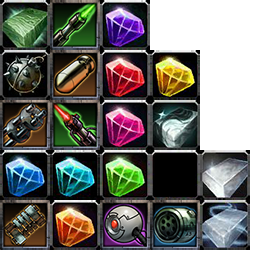
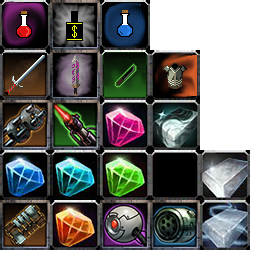
Added Startmenu, updated inventory

Changed region(s): [[0.0, 0.0, 0.7812, 0.4062]]

diff --git a/core/src/de/test/game/StartMenu.java b/core/src/de/test/game/StartMenu.java
@@ -1,0 +1,179 @@
+/**
+ * 
+ */
+package de.test.game;
+
+import com.badlogic.gdx.Game;
+import com.badlogic.gdx.Gdx;
+import com.badlogic.gdx.Screen;
+import com.badlogic.gdx.graphics.Camera;
+import com.badlogic.gdx.graphics.GL20;
+import com.badlogic.gdx.graphics.OrthographicCamera;
+import com.badlogic.gdx.graphics.g2d.BitmapFont;
+import com.badlogic.gdx.graphics.g2d.SpriteBatch;
+import com.badlogic.gdx.graphics.g2d.TextureAtlas;
+import com.badlogic.gdx.scenes.scene2d.InputEvent;
+import com.badlogic.gdx.scenes.scene2d.Stage;
+import com.badlogic.gdx.scenes.scene2d.ui.Skin;
+import com.badlogic.gdx.scenes.scene2d.ui.Table;
+import com.badlogic.gdx.scenes.scene2d.ui.TextButton;
+import com.badlogic.gdx.scenes.scene2d.ui.TextButton.TextButtonStyle;
+import com.badlogic.gdx.scenes.scene2d.utils.ClickListener;
+import com.badlogic.gdx.utils.Align;
+import com.badlogic.gdx.utils.viewport.ExtendViewport;
+import com.badlogic.gdx.utils.viewport.Viewport;
+
+/**
+ * @author User
+ *
+ */
+public class StartMenu implements Screen
+{
+	Game game;
+
+	Viewport viewport;
+	public Stage stage;
+	SpriteBatch batch = new SpriteBatch();
+	
+	TextureAtlas butwin;
+	BitmapFont font;
+	Table table = new Table();
+	TextButton newGame;
+	TextButton loadGame;
+	TextButton options;
+	TextButton exitGame;
+	TextButtonStyle button = new TextButtonStyle();
+	
+	public StartMenu(Game game)
+	{
+		this.game = game;
+	}
+
+	@Override
+	public void show()
+	{
+		
+		viewport = new ExtendViewport(800, 480);
+		stage = new Stage(viewport);
+		Gdx.input.setInputProcessor(stage);
+		
+		butwin = new TextureAtlas("butwin.atlas");
+		font = new BitmapFont(Gdx.files.internal("default.fnt"));
+		Skin skin = new Skin();
+		skin.addRegions(butwin);
+		button.down = skin.getDrawable("start");
+		button.up = skin.getDrawable("start");
+		button.font = font;
+		button.fontColor.rgb565(255, 0, 0);
+		skin.add("buttonSkin", button);
+		
+		newGame = new TextButton("Neues Spiel", skin, "buttonSkin");
+		loadGame = new TextButton("Spiel laden", skin, "buttonSkin");
+		options = new TextButton("Optionen", skin, "buttonSkin");
+		exitGame = new TextButton("Spiel verlassen", skin, "buttonSkin");
+		
+		table.setPosition(Gdx.graphics.getWidth()/2, Gdx.graphics.getHeight()/4);
+		
+		table.add(newGame).width(200).align(Align.center);
+		table.row();
+		table.add(loadGame);
+		table.row();
+		table.add(options);
+		table.row();
+		table.add(exitGame);
+		
+		table.debugCellColor.set(0, 0, 0, 0);
+		table.debugTableColor.set(0, 0, 0, 0);
+		table.debugActorColor.set(0, 0, 0, 0);
+		
+		table.pack();
+		table.debug();
+		
+		newGame.addListener(new ClickListener()
+		{
+			public void clicked(InputEvent e, float x, float y)
+			{
+				System.out.println("StartGame clicked.");
+				game.setScreen(new Gamescreen(game));
+			}
+		});
+		
+		loadGame.addListener(new ClickListener()
+		{
+			public void clicked(InputEvent e, float x, float y)
+			{
+				System.out.println("LoadGame clicked.");
+			}
+		});
+		
+		options.addListener(new ClickListener()
+		{
+			public void clicked(InputEvent e, float x, float y)
+			{
+				System.out.println("Options clicked.");
+			}
+		});
+		
+		exitGame.addListener(new ClickListener()
+		{
+			public void clicked(InputEvent e, float x, float y)
+			{
+				System.out.println("exitGame clicked.");
+				Gdx.app.exit();
+			}
+		});
+		
+		stage.addActor(table);
+		Gdx.input.setInputProcessor(stage);
+	}
+
+	@Override
+	public void render(float delta)
+	{		
+		Gdx.gl.glClearColor(0, 0, 0, 0);
+		Gdx.gl.glClear(GL20.GL_COLOR_BUFFER_BIT);
+		
+		/*batch.setProjectionMatrix(cam.combined);
+		batch.begin();
+		table.draw(batch, 1);
+		batch.end();*/
+		stage.act();
+		stage.draw();
+	}
+
+	@Override
+	public void resize(int width, int height)
+	{
+		viewport.update(width, height);
+		
+	}
+
+	@Override
+	public void pause()
+	{
+		// TODO Auto-generated method stub
+		
+	}
+
+	@Override
+	public void resume()
+	{
+		// TODO Auto-generated method stub
+		
+	}
+
+	@Override
+	public void hide()
+	{
+		// TODO Auto-generated method stub
+		
+	}
+
+	@Override
+	public void dispose()
+	{
+		stage.dispose();
+		
+	}
+
+}

diff --git a/core/src/de/test/game/Item.java b/core/src/de/test/game/Item.java
@@ -2,9 +2,11 @@ package de.test.game;
 
 public enum Item {
 
-	CRYSTAL_RED("redcrystal"), CRYSTAL_BLUE("bluecrystal"), CRYSTAL_GREEN("greencrystal"), CRYSTAL_YELLOW("yellowcrystal"), CRYSTAL_MAGENTA("magentacrystal"), CRYSTAL_CYAN(
-			"cyancrystal"), CRYSTAL_ORANGE("orangecrystal"), CRYSTAL_VIOLET("violetcrystal"), TITANIUM("titanium"), PALLADIUM("palladium"), HEILTRANK("healthpot"), RHODIUM("rhodium"), HULL(
-			"hullbase"), CANNON("cannonbase"), RAY("raybase"), LAUNCHER("launcherbase"), DROID("droidbase"), MINE("dropperbase"), BATTERY("batterybase");
+	MESSER("knife"), CRYSTAL_BLUE("bluecrystal"), CRYSTAL_GREEN("greencrystal"), BRUSTPANZER("armor"), 
+	CRYSTAL_MAGENTA("magentacrystal"), CRYSTAL_CYAN("cyancrystal"), CRYSTAL_ORANGE("orangecrystal"), MANATRANK("manapotion"), 
+	TITANIUM("titanium"), PALLADIUM("palladium"), HEILTRANK("healthpot"), RHODIUM("rhodium"), HULL("hullbase"), 
+	CANNON("cannonbase"), REICHTUMSELIXIER("reichtumselixier"), LANGSCHWERT("schwert1"), DROID("droidbase"), 
+	KURZSCHWERT("schwert2"), BATTERY("batterybase");
 
 	private String textureRegion;
 

diff --git a/core/src/de/test/game/SlotTooltip.java b/core/src/de/test/game/SlotTooltip.java
@@ -11,7 +11,7 @@ public class SlotTooltip extends Window implements SlotListener {
 	private Slot slot;
 
 	public SlotTooltip(Slot slot, Skin skin) {
-		super("Item", skin);
+		super(slot.toString(), skin);
 		this.slot = slot;
 		this.skin = skin;
 		hasChanged(slot);
@@ -25,11 +25,11 @@ public class SlotTooltip extends Window implements SlotListener {
 			setVisible(false);
 			return;
 		}
-
+		
 		// title displays the amount
 		setName(slot.getAmount() + "x " + slot.getItem());
 		clear();
-		Label label = new Label(slot.getItem() + ": " + slot.getAmount() + "x", skin);
+		Label label = new Label("Anzahl: " + slot.getAmount(), skin);
 		add(label);
 		pack();
 	}

diff --git a/core/src/de/test/game/InventoryScreen.java b/core/src/de/test/game/InventoryScreen.java
@@ -38,6 +38,7 @@ public class InventoryScreen implements Screen {
 	
 	@Override
 	public void show() {
+		
 		viewport = new ExtendViewport(800, 480);
 		
 		stage = new Stage(viewport);
@@ -52,6 +53,7 @@ public class InventoryScreen implements Screen {
 		Skin skin = new Skin(Gdx.files.internal("uiskin.json"));
 		DragAndDrop dragAndDrop = new DragAndDrop();
 		inventoryActor = new InventoryActor(new Inventory(), dragAndDrop, skin);
+		inventoryActor.setMovable(false);
 		stage.addActor(inventoryActor);
 		
 		xbutt = new ImageButton(butwi, "xbu");

diff --git a/core/src/de/test/game/Inventory.java b/core/src/de/test/game/Inventory.java
@@ -6,7 +6,7 @@ import com.badlogic.gdx.utils.Array;
 
 public class Inventory{
 
-	private int slotAmount = 88;
+	private int slotAmount = 64;
 	private Array<Slot> slots;
 
 	public Inventory() {
@@ -17,7 +17,8 @@ public class Inventory{
 
 		// create some random items
 		for (Slot slot : slots) {
-			slot.add(Item.values()[MathUtils.random(0, Item.values().length - 1)], 1);
+			slot.add(Item.REICHTUMSELIXIER, 1);
+			//slot.add(Item.values()[MathUtils.random(0, Item.values().length - 1)], 1);
 		}
 
 		// create a few random empty slots

diff --git a/core/src/de/test/game/Testmap.java b/core/src/de/test/game/Testmap.java
@@ -8,17 +8,16 @@ public class Testmap extends Game {
 	static Testmap gameT;
 	
 	Gamescreen gamescreen;
-//	Battlescreen battlescreen;
+	StartMenu startMenu;
 	
 	@Override
 	public void create() {
+		startMenu = new StartMenu(this);
 		gamescreen = new Gamescreen(this);
-//		battlescreen = new Battlescreen(this);
+
 		gameT = new Testmap();
-		
-		//setScreen(new Gamescreen(game));
-		setScreen(gamescreen);
-		//setScreen(new Battlescreen(game));
+
+		setScreen(startMenu);
 
 	}
 

diff --git a/core/src/de/test/game/Gamescreen.java b/core/src/de/test/game/Gamescreen.java
@@ -144,6 +144,7 @@ public class Gamescreen implements Screen {
 		sr = new ShapeRenderer();
 		if(Gdx.app.getType() == ApplicationType.Desktop){
 			test = new File("C:/Users/" + userName + "/.prefs/haw");
+			System.out.println(System.getProperty("user.name"));
 		}
 		else{
 			test = new File("/data/data/de.test.game/shared_prefs/haw.xml");
@@ -225,7 +226,6 @@ public class Gamescreen implements Screen {
 		stage.act();
 		stage.draw();
 		warn.setVisible(false);
-		
 	}
 	
 

diff --git a/core/src/de/test/game/Slot.java b/core/src/de/test/game/Slot.java
@@ -81,6 +81,6 @@ public class Slot {
 
 	@Override
 	public String toString() {
-		return "Slot[" + item + ":" + amount + "]";
+		return item + "";
 	}
 }
